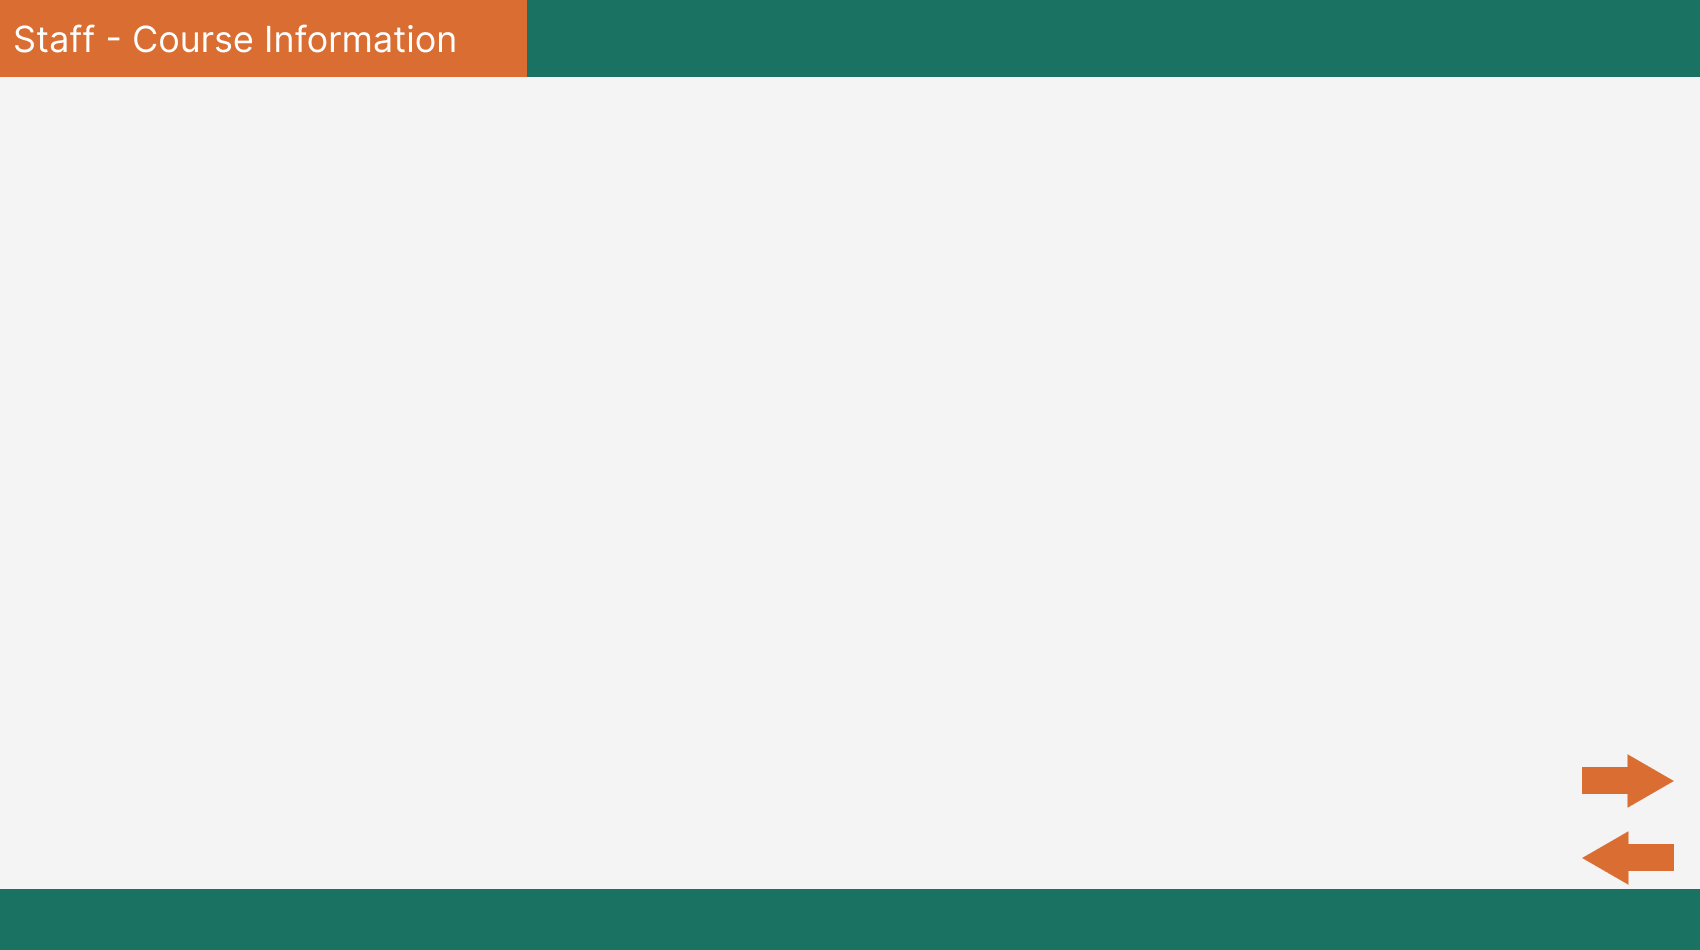
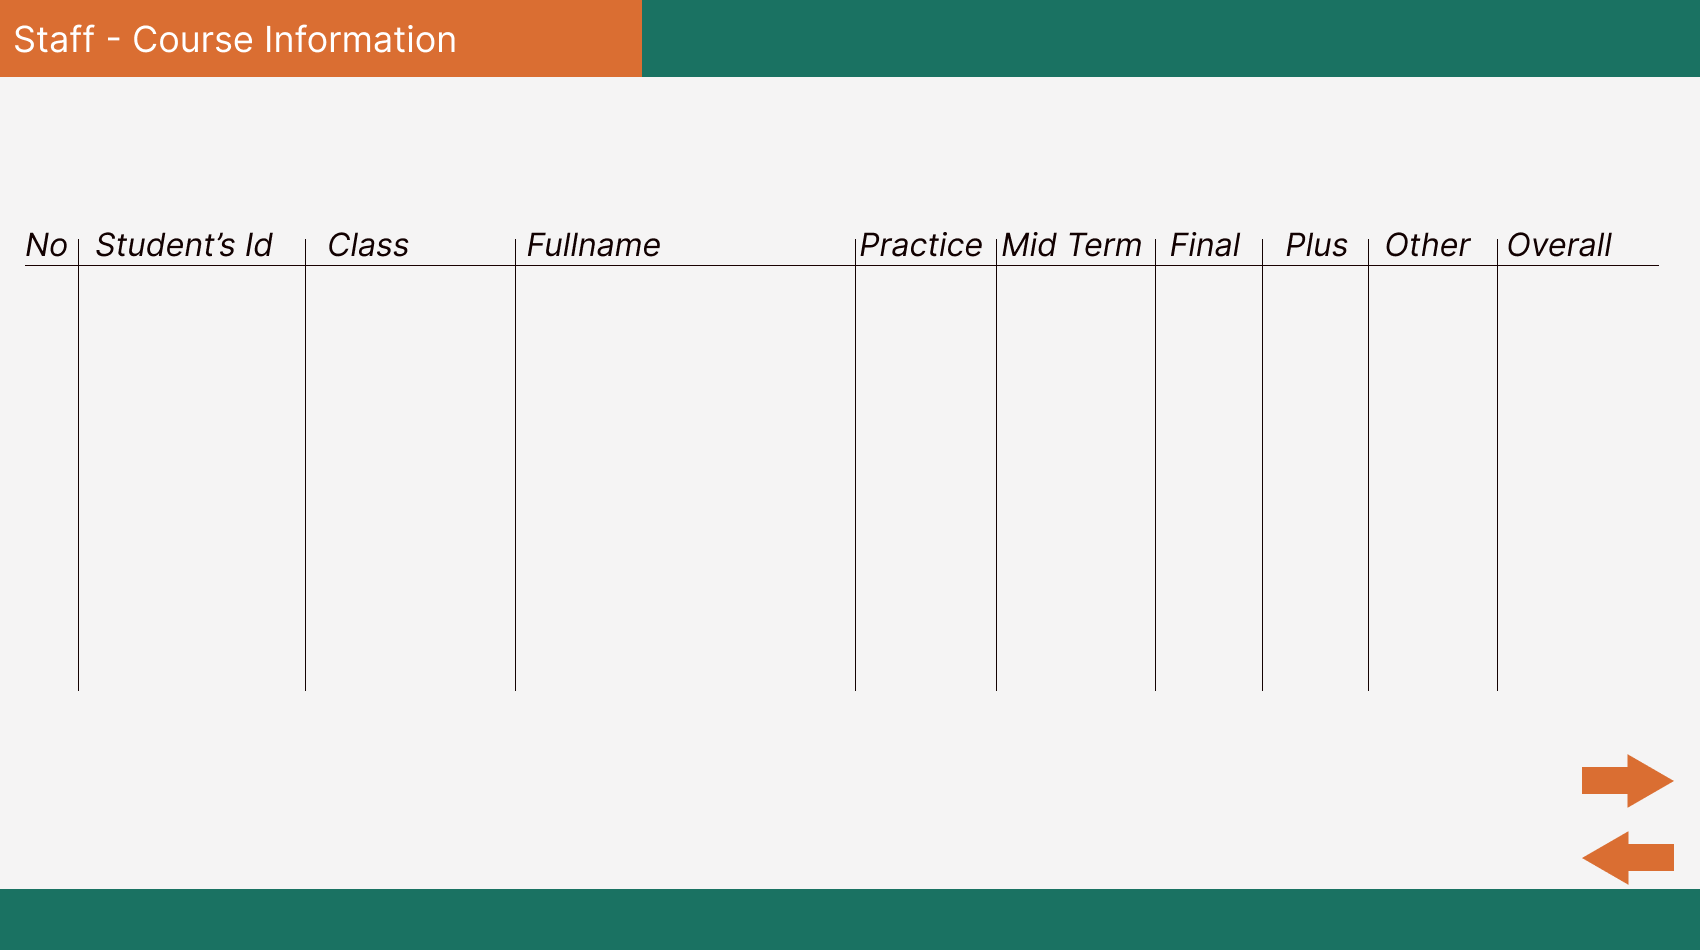
refactor

diff --git a/SFML/Activity2.cpp b/SFML/Activity2.cpp
@@ -749,25 +749,6 @@ void Activity2::courseInformation(Semester& semester, Course& course)
     Button nextPageBtn(1586.f, 736.f, 92.f, 62.f, "Next", fontNext, sf::Color(218, 110, 50));
     Button prevPageBtn(1586.f, 813.f, 92.f, 62.f, "Prev", fontNext, sf::Color(218, 110, 50));
        
-    Button horizontalLine(22, 273, 1545, 0, "", fontNext, BLACK);
-    Button verticalLine1(82, 239, 0, 452, "", fontNext, BLACK);
-    Button verticalLine2(309, 239, 0, 452, "", fontNext, BLACK);
-    Button verticalLine3(519, 239, 0, 452, "", fontNext, BLACK);
-    Button verticalLine4(859, 239, 0, 452, "", fontNext, BLACK);
-    Button verticalLine5(1000, 239, 0, 452, "", fontNext, BLACK);
-    Button verticalLine6(1159, 239, 0, 452, "", fontNext, BLACK);
-    Button verticalLine7(1266, 239, 0, 452, "", fontNext, BLACK);
-    Button verticalLine8(1372, 239, 0, 452, "", fontNext, BLACK);
-
-    Text noTxt(29, 232, "No", fontNext, GREEN, 32);
-    Text studentNameTxt(103, 232, "Student's ID", fontNext, GREEN, 32);
-    Text studentIdTxt(316, 232, "Class", fontNext, GREEN, 32);
-    Text midtermTxt(529, 232, "Fullname", fontNext, GREEN, 32);
-    Text finalTxt(862, 232, "Practice", fontNext, GREEN, 32);
-    Text extraTxt(1002, 232, "Midterm", fontNext, GREEN, 32);
-    Text overallTxt(1167, 232, "Final", fontNext, GREEN, 32);
-    Text exTxt(1287, 232, "Plus", fontNext, GREEN, 32);
-    Text ex1Txt(1420, 232, "Overall", fontNext, GREEN, 32);
 
     vector<Text> studentInformation;
     vector<Button> studentInforListBtn;
@@ -782,7 +763,8 @@ void Activity2::courseInformation(Semester& semester, Course& course)
         Text midTxt(1037, (float)280 + 36 * ((i - 1) % 10), course.score[i][4], fontNext, BLACK, 32);
         Text finTxt(1185, (float)280 + 36 * ((i - 1) % 10), course.score[i][5], fontNext, BLACK, 32);
         Text plusTxt(1291, (float)280 + 36 * ((i - 1) % 10), course.score[i][6], fontNext, BLACK, 32);
-        Text overTxt(1437, (float)280 + 36 * ((i - 1) % 10), course.score[i][7], fontNext, RED, 32);
+        Text otherTxt(1406, (float)280 + 36 * ((i - 1) % 10), course.score[i][7], fontNext, BLACK, 32);
+        Text overTxt(1541, (float)280 + 36 * ((i - 1) % 10), course.score[i][8], fontNext, RED, 32);
 
         studentInformation.push_back(numTxt);
         studentInformation.push_back(sIdTxt);
@@ -793,6 +775,7 @@ void Activity2::courseInformation(Semester& semester, Course& course)
         studentInformation.push_back(finTxt);
         studentInformation.push_back(plusTxt);
         studentInformation.push_back(overTxt);
+        studentInformation.push_back(otherTxt);
 
         Button tmpBtn(105, (float)(280 + 36 * ((i - 1) % 10)), 1600, 32, "23125019", fontNext, BLACK);
         studentInforListBtn.push_back(tmpBtn);
@@ -802,7 +785,7 @@ void Activity2::courseInformation(Semester& semester, Course& course)
 
     while (windowNext.isOpen()) {
         sf::Event event;
-        long long displayLimit = (displayFrom + 10) > studentInformation.size()/9 ? studentInformation.size()/9 : (displayFrom + 10);
+        long long displayLimit = (displayFrom + 10) > studentInformation.size()/10 ? studentInformation.size()/10 : (displayFrom + 10);
         while (windowNext.pollEvent(event)) {
             if (event.type == sf::Event::Closed)
                 windowNext.close();
@@ -874,7 +857,7 @@ void Activity2::courseInformation(Semester& semester, Course& course)
                     addStudentToCourse(course);
                     curStudentTxt.setString("Current students: " + course.getCurStu());
 
-                    int i = course.score.size() - 1;
+                    long long i = course.score.size() - 1;
                     std::string noStr = (i < 10) ? ('0' + std::to_string(i)) : (std::to_string(i));
 
                     Text numTxt(37, (float)280 + 36 * ((i - 1) % 10), noStr, fontNext, GREEN, 32);
@@ -886,7 +869,8 @@ void Activity2::courseInformation(Semester& semester, Course& course)
                     Text midTxt(1037, (float)280 + 36 * ((i - 1) % 10), course.score[i][4], fontNext, BLACK, 32);
                     Text finTxt(1185, (float)280 + 36 * ((i - 1) % 10), course.score[i][5], fontNext, BLACK, 32);
                     Text plusTxt(1291, (float)280 + 36 * ((i - 1) % 10), course.score[i][6], fontNext, BLACK, 32);
-                    Text overTxt(1437, (float)280 + 36 * ((i - 1) % 10), course.score[i][7], fontNext, RED, 32);
+                    Text otherTxt(1406, (float)280 + 36 * ((i - 1) % 10), course.score[i][7], fontNext, BLACK, 32);
+                    Text overTxt(1541, (float)280 + 36 * ((i - 1) % 10), course.score[i][8], fontNext, RED, 32);
 
                     studentInformation.push_back(numTxt);
                     studentInformation.push_back(sIdTxt);
@@ -897,6 +881,7 @@ void Activity2::courseInformation(Semester& semester, Course& course)
                     studentInformation.push_back(finTxt);
                     studentInformation.push_back(plusTxt);
                     studentInformation.push_back(overTxt);
+                    studentInformation.push_back(otherTxt);
 
                     Button tmpBtn(105, (float)(280 + 36 * ((i - 1) % 10)), 180, 32, "23125019", fontNext, BLACK);
                     studentInforListBtn.push_back(tmpBtn);
@@ -958,7 +943,8 @@ void Activity2::courseInformation(Semester& semester, Course& course)
                         Text midTxt(1037, (float)280 + 36 * ((i - 1) % 10), course.score[i][4], fontNext, BLACK, 32);
                         Text finTxt(1185, (float)280 + 36 * ((i - 1) % 10), course.score[i][5], fontNext, BLACK, 32);
                         Text plusTxt(1291, (float)280 + 36 * ((i - 1) % 10), course.score[i][6], fontNext, BLACK, 32);
-                        Text overTxt(1437, (float)280 + 36 * ((i - 1) % 10), course.score[i][7], fontNext, RED, 32);
+                        Text otherTxt(1406, (float)280 + 36 * ((i - 1) % 10), course.score[i][7], fontNext, BLACK, 32);
+                        Text overTxt(1541, (float)280 + 36 * ((i - 1) % 10), course.score[i][8], fontNext, RED, 32);
 
                         studentInformation.push_back(numTxt);
                         studentInformation.push_back(sIdTxt);
@@ -969,6 +955,7 @@ void Activity2::courseInformation(Semester& semester, Course& course)
                         studentInformation.push_back(finTxt);
                         studentInformation.push_back(plusTxt);
                         studentInformation.push_back(overTxt);
+                        studentInformation.push_back(otherTxt);
 
                         Button tmpBtn(105, (float)(280 + 36 * ((i - 1) % 10)), 180, 32, "23125019", fontNext, BLACK);
                         studentInforListBtn.push_back(tmpBtn);
@@ -1009,6 +996,7 @@ void Activity2::courseInformation(Semester& semester, Course& course)
 
                             Text numTxt(37, (float)280 + 36 * ((i - 1) % 10), noStr, fontNext, GREEN, 32);
 
+                            //Stu ID,       Class,      Name,       Practice Score, Midterm Score,      Final Score,    Plus Score, Other Score,    Average Score,
                             Text sIdTxt(105, (float)(280 + 36 * ((i - 1) % 10)), course.score[i][0], fontNext, RED, 32);
                             Text sCTxt(323, (float)280 + 36 * ((i - 1) % 10), course.score[i][1], fontNext, BLACK, 32);
                             Text sFTxt(525, (float)280 + 36 * ((i - 1) % 10), course.score[i][2], fontNext, BLACK, 32);
@@ -1016,7 +1004,8 @@ void Activity2::courseInformation(Semester& semester, Course& course)
                             Text midTxt(1037, (float)280 + 36 * ((i - 1) % 10), course.score[i][4], fontNext, BLACK, 32);
                             Text finTxt(1185, (float)280 + 36 * ((i - 1) % 10), course.score[i][5], fontNext, BLACK, 32);
                             Text plusTxt(1291, (float)280 + 36 * ((i - 1) % 10), course.score[i][6], fontNext, BLACK, 32);
-                            Text overTxt(1437, (float)280 + 36 * ((i - 1) % 10), course.score[i][7], fontNext, RED, 32);
+                            Text otherTxt(1406, (float)280 + 36 * ((i - 1) % 10), course.score[i][7], fontNext, BLACK, 32);
+                            Text overTxt(1541, (float)280 + 36 * ((i - 1) % 10), course.score[i][8], fontNext, RED, 32);
 
                             studentInformation.push_back(numTxt);
                             studentInformation.push_back(sIdTxt);
@@ -1027,6 +1016,7 @@ void Activity2::courseInformation(Semester& semester, Course& course)
                             studentInformation.push_back(finTxt);
                             studentInformation.push_back(plusTxt);
                             studentInformation.push_back(overTxt);
+                            studentInformation.push_back(otherTxt);
 
                             Button tmpBtn(105, (float)(280 + 36 * ((i - 1) % 10)), 180, 32, "23125019", fontNext, BLACK);
                             studentInforListBtn.push_back(tmpBtn);
@@ -1056,27 +1046,8 @@ void Activity2::courseInformation(Semester& semester, Course& course)
         maxStudentTxt.draw(windowNext);
         curStudentTxt.draw(windowNext);
         dayTxt.draw(windowNext);
-        horizontalLine.draw(windowNext);
-        verticalLine1.draw(windowNext);
-        verticalLine2.draw(windowNext);
-        verticalLine3.draw(windowNext);
-        verticalLine4.draw(windowNext);
-        verticalLine5.draw(windowNext);
-        verticalLine6.draw(windowNext);
-        verticalLine7.draw(windowNext);
-        verticalLine8.draw(windowNext);
 
-        noTxt.draw(windowNext);
-        studentNameTxt.draw(windowNext);
-        studentIdTxt.draw(windowNext);
-        midtermTxt.draw(windowNext);
-        finalTxt.draw(windowNext);
-        extraTxt.draw(windowNext);
-        overallTxt.draw(windowNext);
-        exTxt.draw(windowNext);
-        ex1Txt.draw(windowNext);
-
-        for (int i = displayFrom * 9; i < displayLimit * 9; i++)
+        for (int i = displayFrom * 10; i < displayLimit * 10; i++)
             studentInformation[i].draw(windowNext);
         
 

diff --git a/SFML/Components.h b/SFML/Components.h
@@ -64,6 +64,8 @@ public:
         if (this == &rhs) return *this;
         this->shape = rhs.shape;
         this->text = rhs.text;
+
+        return *this;
     }
 };
 

diff --git a/SFML/Course.h b/SFML/Course.h
@@ -453,5 +453,7 @@ public:
 				return true;
 			}
 		}
+
+		return true;
 	}
 };
